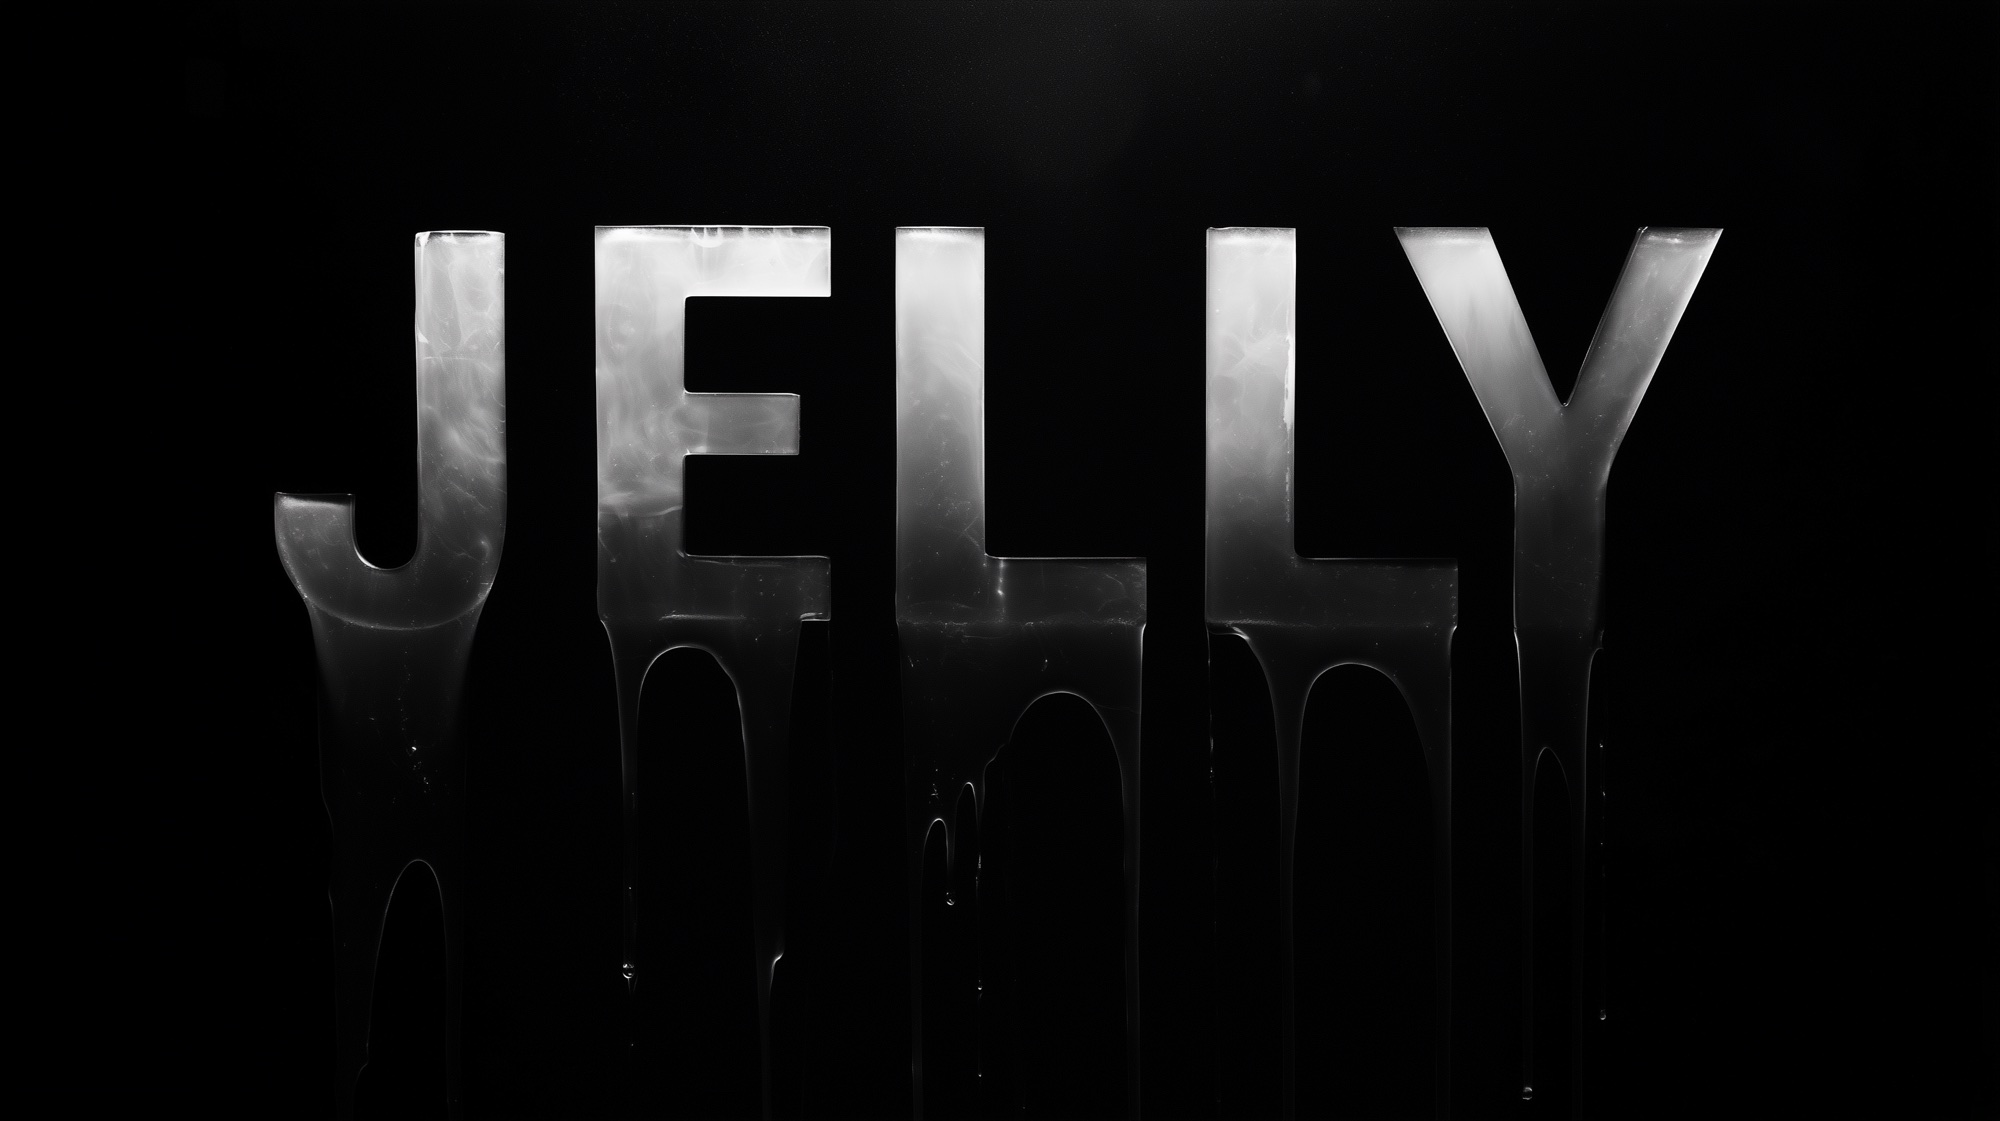
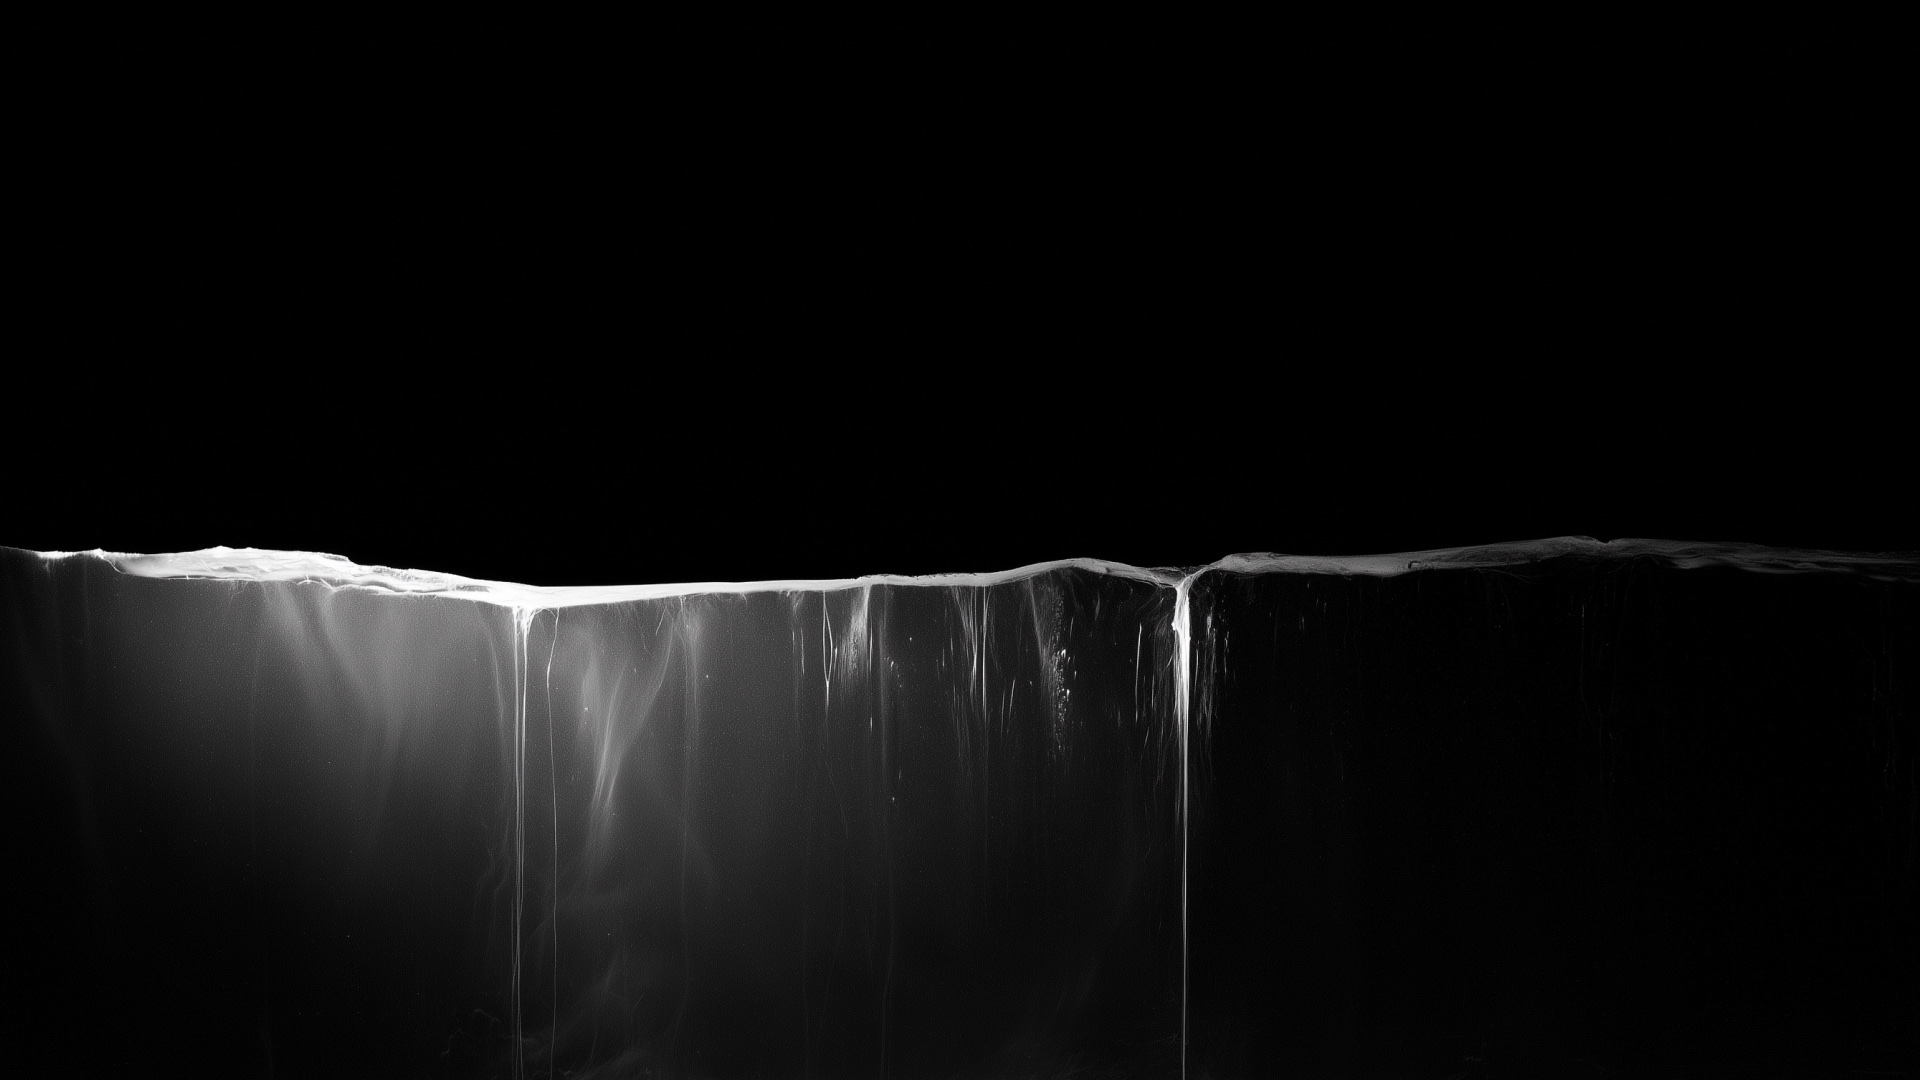
the plate stops being a picture
The wordmark behind the glass was a second thing asking to be read, and
the button lost against it. It is gone. What is behind the lens now is
a wall of gel seen edge on: black above, material below, one lit ridge
running across. The button sits on that ridge, quiet above and with
something to bend underneath.

The raster came and went with it. A one pixel grid over a picture reads
as a panel; over this it read as dirt, so it is off.

Changed region(s): [[0.0, 0.1833, 0.9688, 1.0], [0.4688, 0.0, 0.625, 0.0611]]

diff --git a/glass/demo.html b/glass/demo.html
@@ -59,6 +59,11 @@ function buildLedPlate(w, h) {
   const tile = document.createElement('canvas');
   tile.width = period; tile.height = period;
   const tx = tile.getContext('2d');
+  // the raster is a quarter present, no more: the gap keeps three
+  // quarters of the picture, so the grid is a structure lying over the
+  // material rather than something that cuts it apart
+  tx.fillStyle = 'rgba(255,255,255,1)';
+  tx.fillRect(0, 0, period, period);
   tx.fillStyle = '#fff';
   tx.fillRect(0, 0, dot, dot);
   lctx.globalCompositeOperation = 'destination-in';

diff --git a/stepper/demo.html b/stepper/demo.html
@@ -50,6 +50,11 @@ function buildLedPlate(w, h) {
   const tile = document.createElement('canvas');
   tile.width = period; tile.height = period;
   const tx = tile.getContext('2d');
+  // the raster is a quarter present, no more: the gap keeps three
+  // quarters of the picture, so the grid is a structure lying over the
+  // material rather than something that cuts it apart
+  tx.fillStyle = 'rgba(255,255,255,1)';
+  tx.fillRect(0, 0, period, period);
   tx.fillStyle = '#fff';
   tx.fillRect(0, 0, dot, dot);
   lctx.globalCompositeOperation = 'destination-in';
